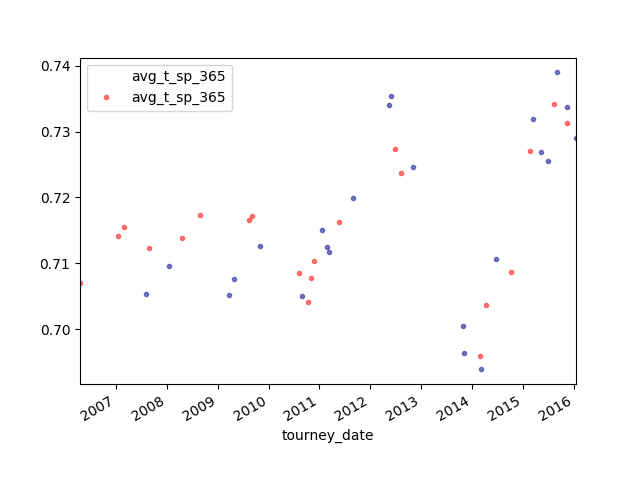
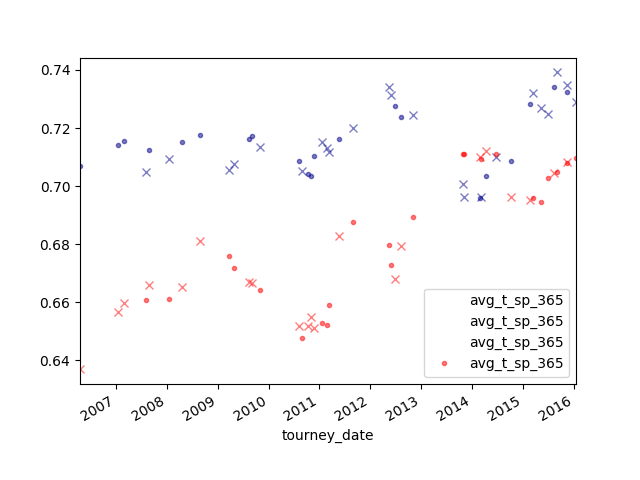
save the file as csv

diff --git a/src/dw/tennis_data_handle.py b/src/dw/tennis_data_handle.py
@@ -85,6 +85,10 @@ df_cal_chose[w1_sp_comp] = df_cal_chose[w1_sp] - df_cal_chose[avg_1w_sp]
 df_cal_chose[t_sp_comp] = df_cal_chose[t_sp] - df_cal_chose[avg_t_sp]
 df_cal_chose[t_rp_comp] = df_cal_chose[t_rp] - df_cal_chose[avg_t_rp]
 # print (df_cal_chose.shape)
+df_cal_chose.to_csv('df_cal_chose.csv', index= False)
+# grouped = df_cal_chose.groupby(tourney_id).size()
+# print (grouped)
+# print (grouped.shape)
 
 # ================= ABOVE IS CONSTRUCT DATAFRAME =====================
 
@@ -151,13 +155,19 @@ df_cal_chose[t_rp_comp] = df_cal_chose[t_rp] - df_cal_chose[avg_t_rp]
 
 # ================= ABOVE IS PCA PART =====================
 
-# this is to make the scatter plot to check the relationship
-fig, axes = plt.subplots(1, 1)
+# # this is to make the scatter plot to check the relationship
+# fig, axes = plt.subplots(1, 1)
 
-ax1 = df_cal_chose.loc[df_cal_chose[w_or_l] == 0, :].plot(x = 'tourney_date', y = avg_t_sp_365, c = 'DarkBlue', style = '.', alpha = .5)
+# ax1 = df_cal_chose.loc[(df_cal_chose[w_or_l] == 0) & (df_cal_chose[player_name] == 'Roger Federer'), :].plot(x = 'tourney_date', y = avg_t_sp_365, c = 'DarkBlue', style = 'x', alpha = .5)
 
-ax2 = df_cal_chose.loc[df_cal_chose[w_or_l] == 1, :].plot(x = 'tourney_date', y = avg_t_sp_365, c = 'Red', style = '.', alpha = .5, ax = ax1)
+# ax2 = df_cal_chose.loc[(df_cal_chose[w_or_l] == 1) & (df_cal_chose[player_name] == 'Roger Federer'), :].plot(x = 'tourney_date', y = avg_t_sp_365, c = 'DarkBlue', style = '.', alpha = .5, ax = ax1)
 
-plt.savefig('pic_output.png')
+# ax3 = df_cal_chose.loc[(df_cal_chose[w_or_l] == 0) & (df_cal_chose[player_name] == 'Novak Djokovic'), :].plot(x = 'tourney_date', y = avg_t_sp_365, c = 'red', style = 'x', alpha = .5, ax = ax2)
+
+# ax4 = df_cal_chose.loc[(df_cal_chose[w_or_l] == 1) & (df_cal_chose[player_name] == 'Novak Djokovic'), :].plot(x = 'tourney_date', y = avg_t_sp_365, c = 'red', style = '.', alpha = .5, ax = ax3)
+
+# # ax2 = df_cal_chose.loc[df_cal_chose[w_or_l] == 1, :].plot(x = 'tourney_date', y = avg_t_sp_365, c = 'Red', style = '.', alpha = .5, ax = ax1)
+
+# plt.savefig('pic_output.png')
 
 # ================= ABOVE IS PLOT CHECK PART =====================
